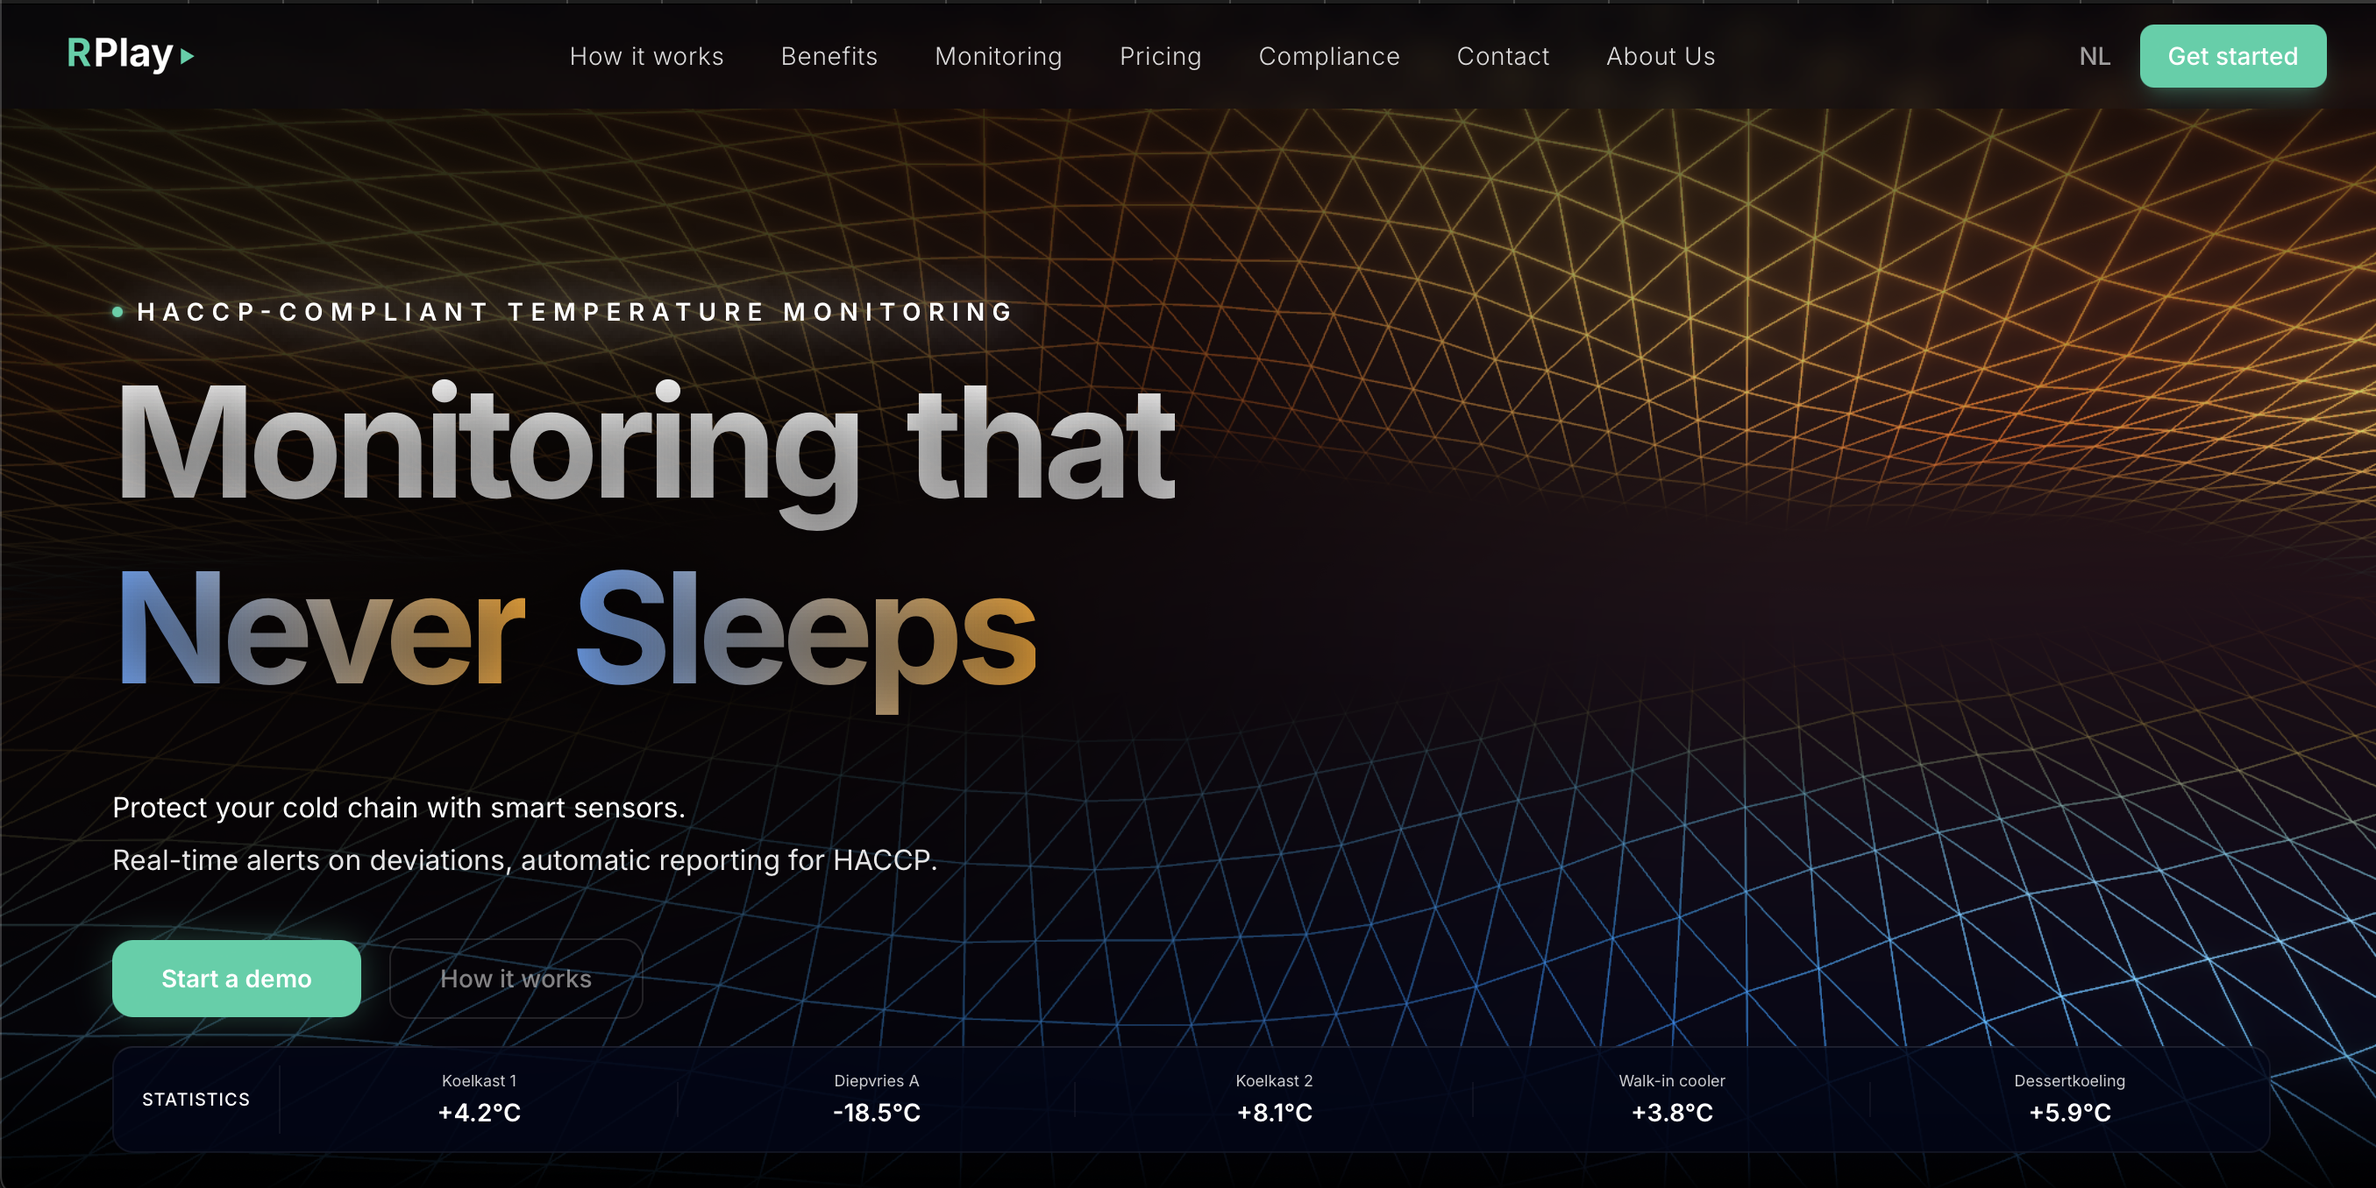
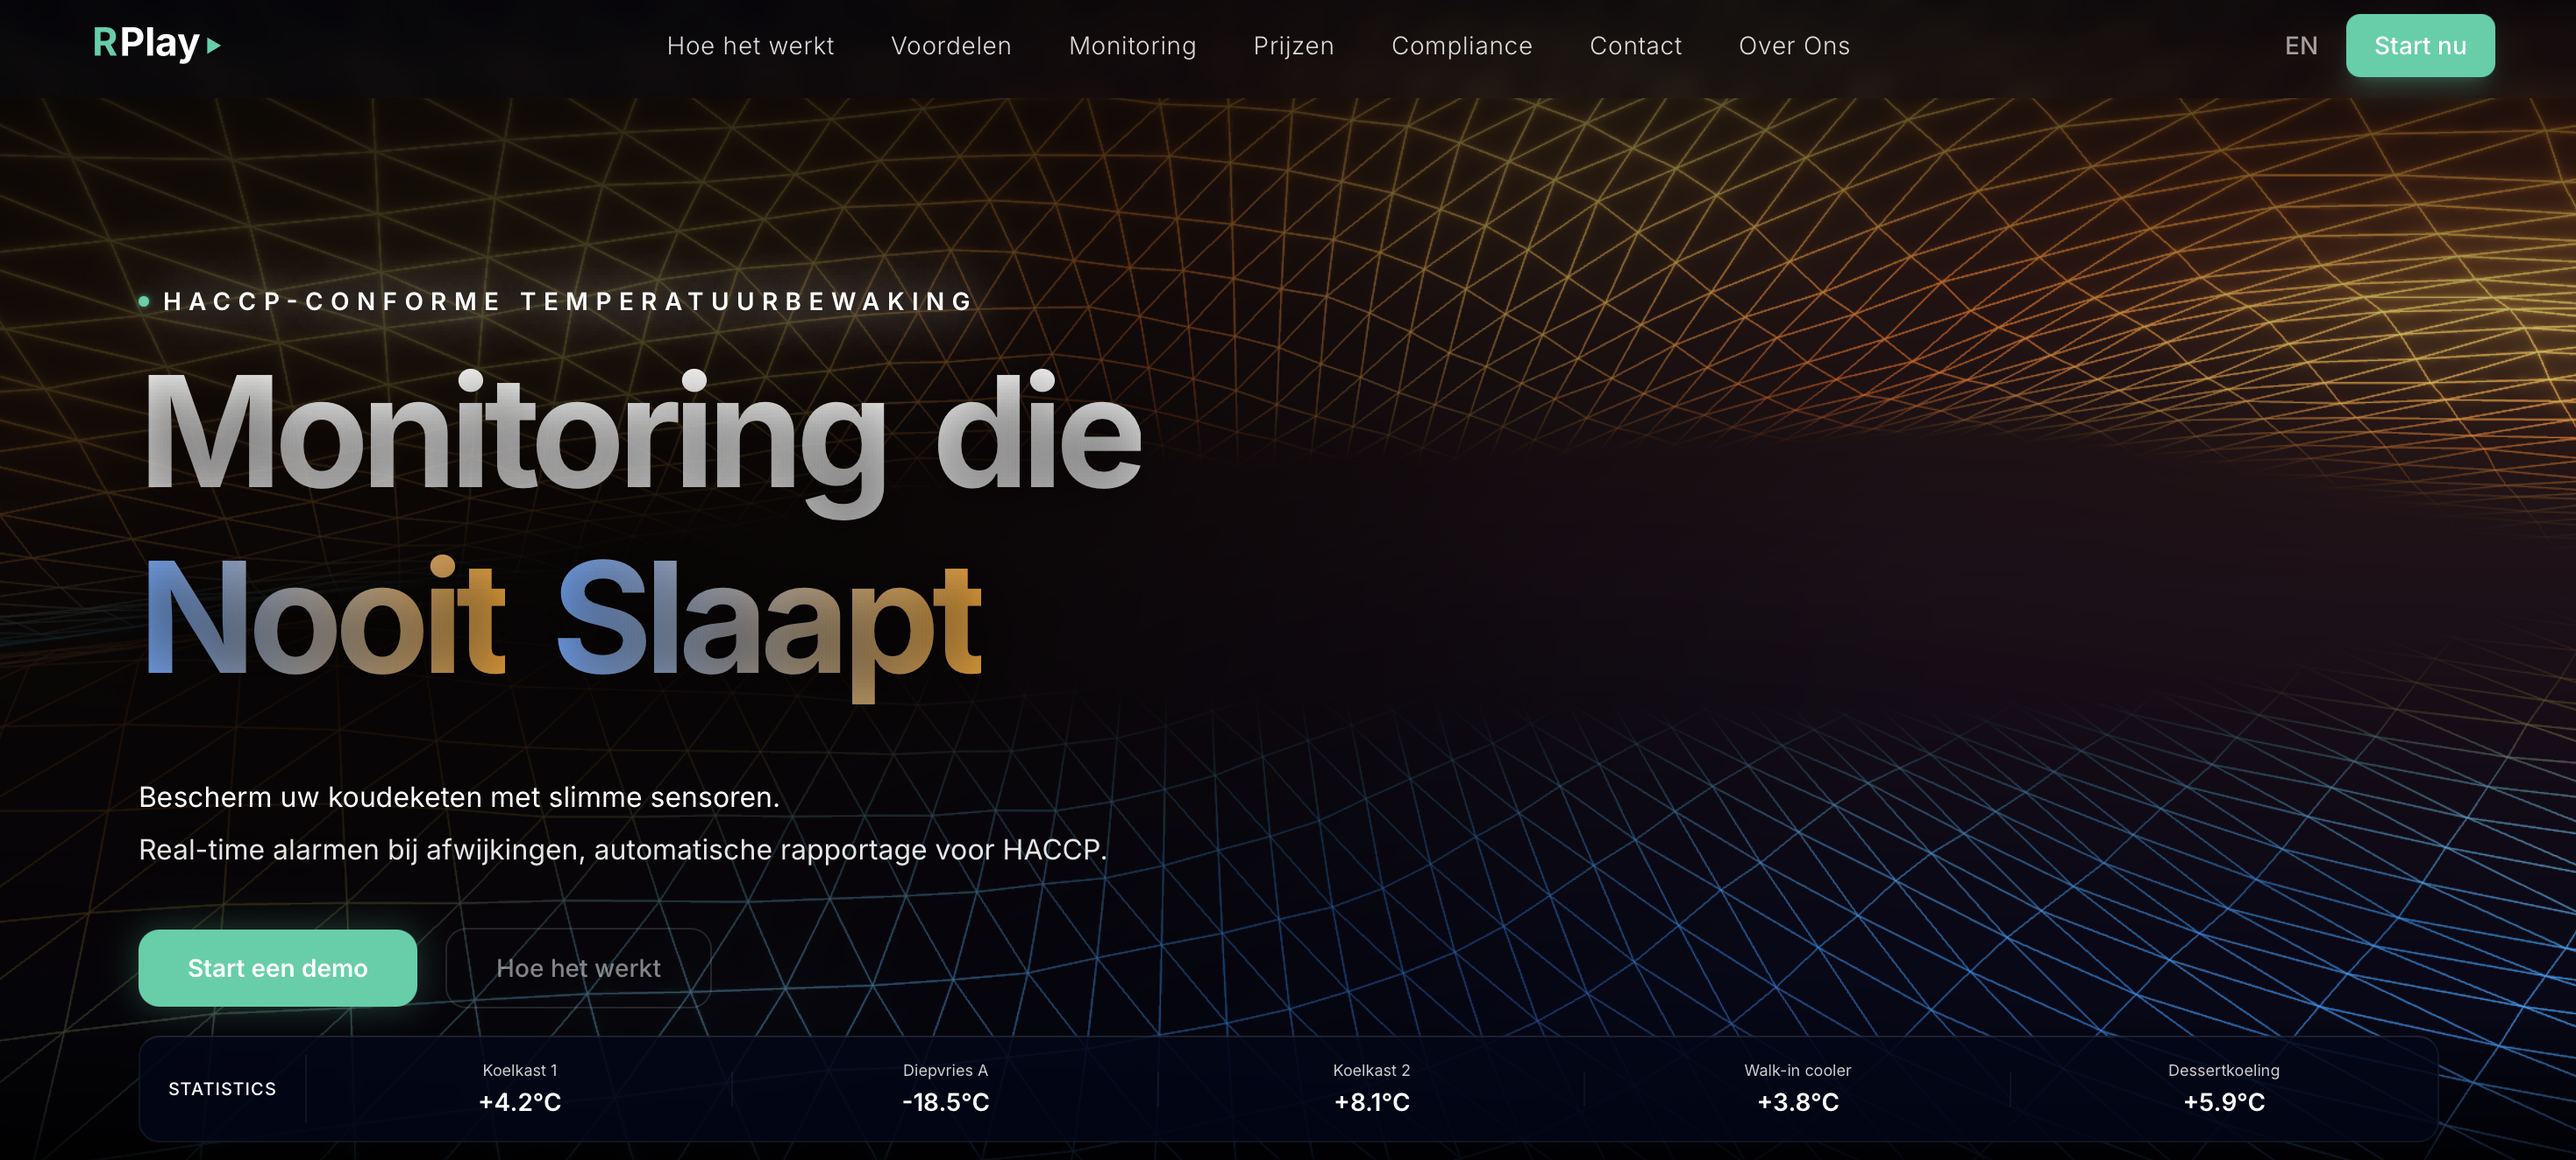
Update RPlay screenshot to better-centered version

diff --git a/nl/index.html b/nl/index.html
@@ -1307,7 +1307,7 @@
         </p>
         <div class="grid sm:grid-cols-2 lg:grid-cols-3 gap-3">
           <a href="https://rplay.be" target="_blank" rel="noopener" class="domain-card-dark domain-emerald group">
-            <div class="card-shot"><img src="shots/rplay.png?v=4" alt="" loading="lazy" /></div>
+            <div class="card-shot"><img src="shots/rplay.png?v=5" alt="" loading="lazy" /></div>
             <div class="flex items-start justify-between gap-2 mb-3"><span class="pill">Horeca SaaS · solo oprichter</span><svg width="14" height="14" viewBox="0 0 24 24" fill="none" stroke="currentColor" stroke-width="2.4" stroke-linecap="round" stroke-linejoin="round" class="arrow opacity-50 group-hover:opacity-100 group-hover:-translate-y-0.5 group-hover:translate-x-0.5 transition"><path d="M7 17L17 7M17 7H7M17 7V17"/></svg></div>
             <h3 class="text-xl font-semibold">RPlay</h3>
             <p class="text-sm text-slate-300 leading-relaxed mt-2"><strong style="color:#f1f5f9">End-to-end door mij gebouwd</strong> &mdash; elke regel code, het merk, de prijszetting, het gateway-flash-script. Keuken-temperatuur + HACCP-auditlogs, BLE-tags, PWA, plug-and-play gateway. Pre-launch sprint met de eerste Brugse restaurant-pilots.</p>

diff --git a/index.html b/index.html
@@ -1308,7 +1308,7 @@
         </p>
         <div class="grid sm:grid-cols-2 lg:grid-cols-3 gap-3">
           <a href="https://rplay.be" target="_blank" rel="noopener" class="domain-card-dark domain-emerald group">
-            <div class="card-shot"><img src="shots/rplay.png?v=4" alt="" loading="lazy" /></div>
+            <div class="card-shot"><img src="shots/rplay.png?v=5" alt="" loading="lazy" /></div>
             <div class="flex items-start justify-between gap-2 mb-3"><span class="pill">Horeca SaaS · solo founder</span><svg width="14" height="14" viewBox="0 0 24 24" fill="none" stroke="currentColor" stroke-width="2.4" stroke-linecap="round" stroke-linejoin="round" class="arrow opacity-50 group-hover:opacity-100 group-hover:-translate-y-0.5 group-hover:translate-x-0.5 transition"><path d="M7 17L17 7M17 7H7M17 7V17"/></svg></div>
             <h3 class="text-xl font-semibold">RPlay</h3>
             <p class="text-sm text-slate-300 leading-relaxed mt-2"><strong style="color:#f1f5f9">Built end-to-end by me</strong> — every line of code, the brand, the pricing, the gateway flash script. Kitchen temp + HACCP audit logs, BLE tags, PWA, plug-and-play gateway. Pre-launch sprint with first Bruges restaurant pilots.</p>
